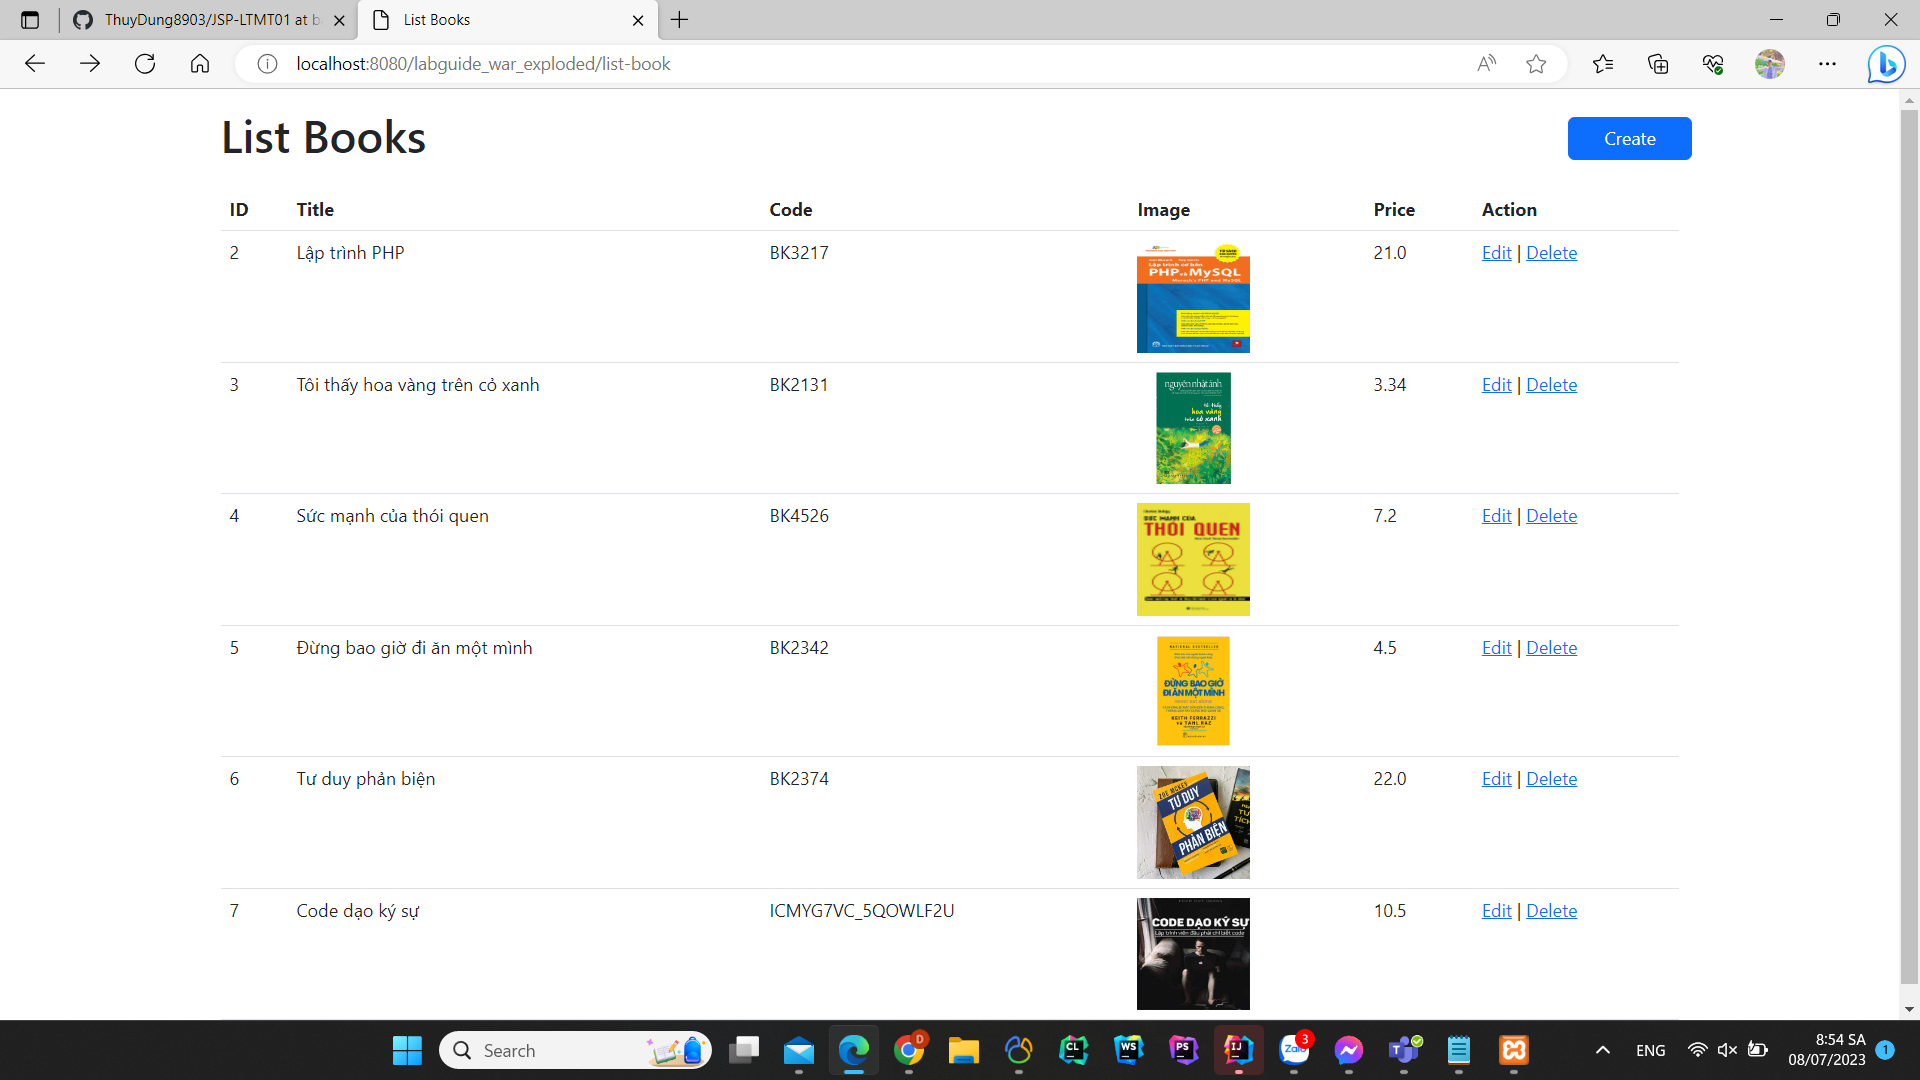
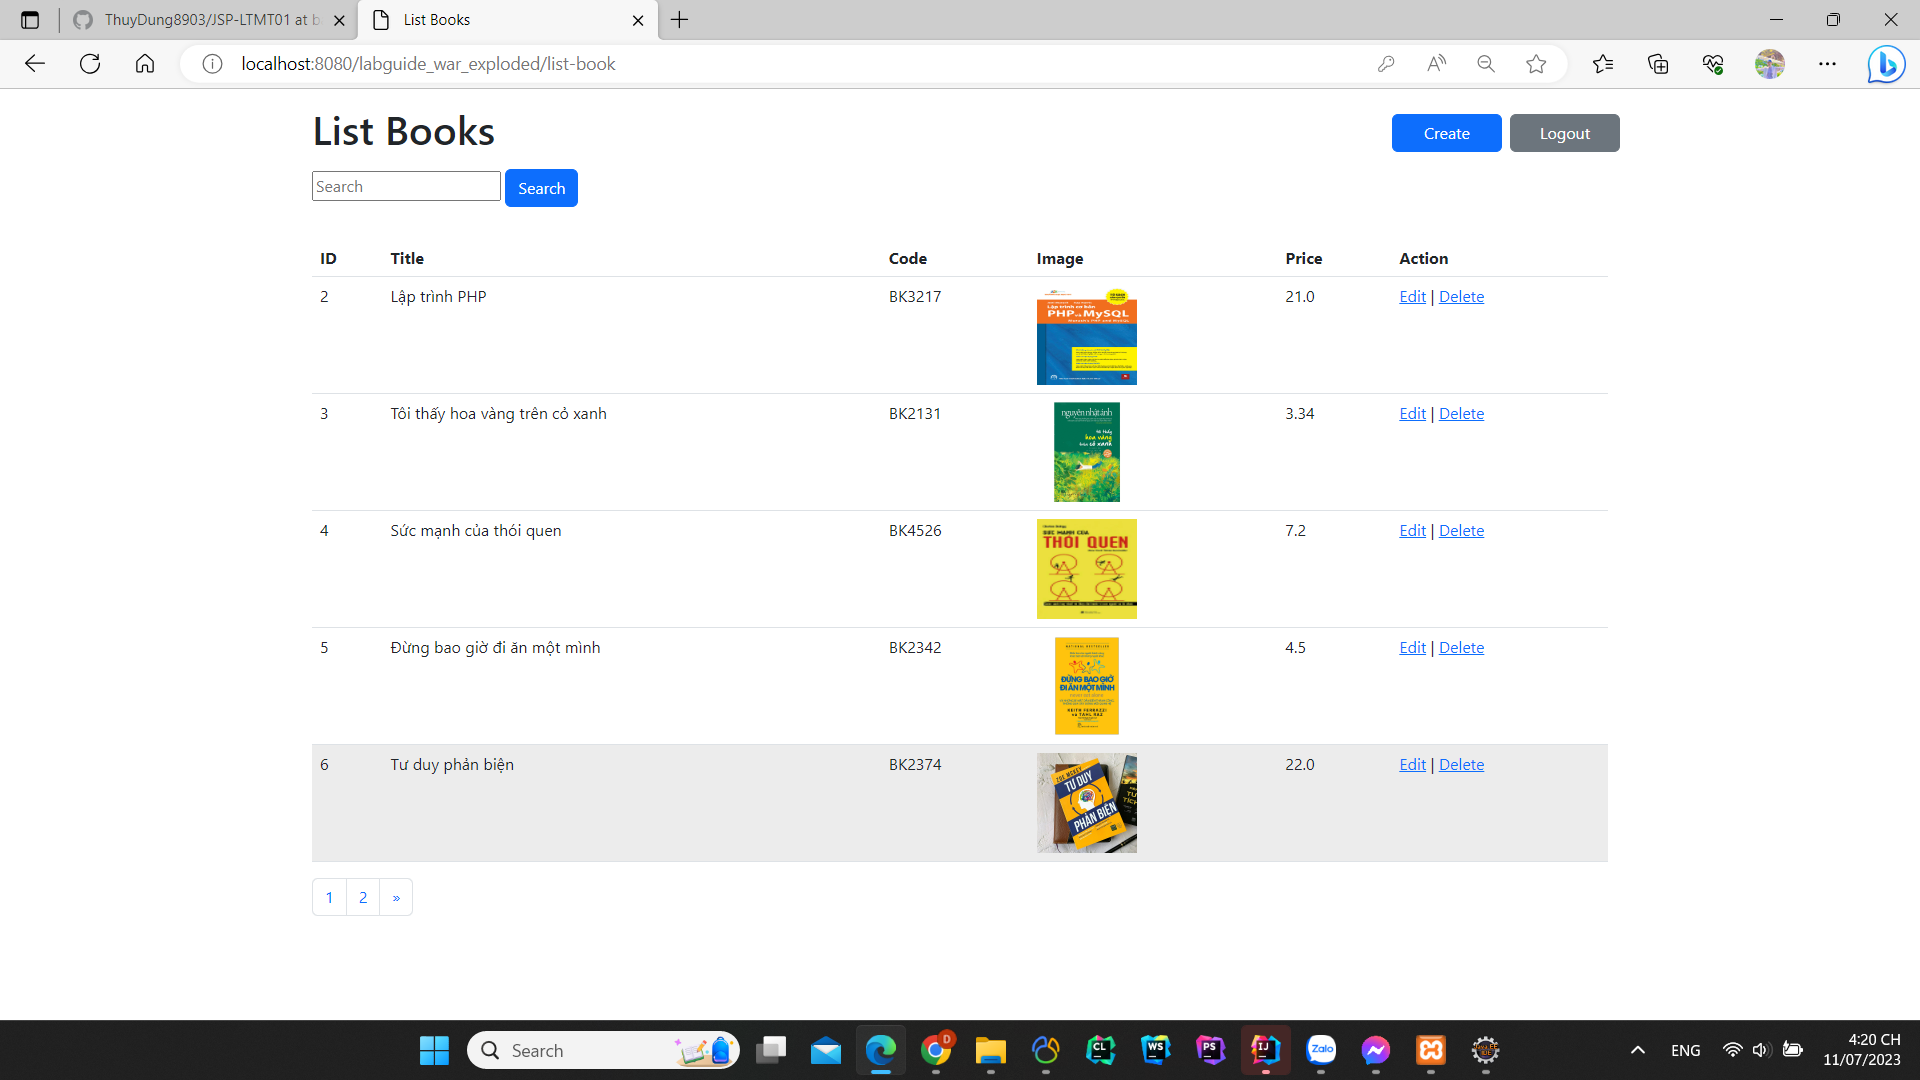
bai-dk-02

diff --git a/src/main/java/com/example/labguide/dals/BookDAL.java b/src/main/java/com/example/labguide/dals/BookDAL.java
@@ -7,9 +7,9 @@ import java.util.ArrayList;
 
 public class BookDAL {
     public ArrayList<Book> listBook() {
+        Connection connection = DB.connect();
         ArrayList<Book> listBook = new ArrayList<Book>();
         try {
-            Connection connection = DB.connect();
             String sql = "select * from books";
             Statement statement = connection.createStatement();
             ResultSet resultSet = statement.executeQuery(sql);
@@ -32,8 +32,8 @@ public class BookDAL {
     }
 
     public void addBook(Book book) {
+        Connection connection = DB.connect();
         try {
-            Connection connection = DB.connect();
             String sql = "INSERT INTO books (title, code, image, price) VALUES (?, ?, ?, ?)";
             PreparedStatement statement = connection.prepareStatement(sql);
             statement.setString(1, book.getTitle());
@@ -48,8 +48,8 @@ public class BookDAL {
     }
 
     public void deleteBook(int bookId) {
+        Connection connection = DB.connect();
         try {
-            Connection connection = DB.connect();
             String sql = "DELETE FROM books WHERE id=?";
             PreparedStatement statement = connection.prepareStatement(sql);
             statement.setInt(1, bookId);
@@ -61,8 +61,8 @@ public class BookDAL {
     }
 
     public void editBook(Book book) {
+        Connection connection = DB.connect();
         try {
-            Connection connection = DB.connect();
             String sql = "UPDATE books SET title=?, code=?, image=?, price=? WHERE id=?";
             PreparedStatement statement = connection.prepareStatement(sql);
             statement.setString(1, book.getTitle());
@@ -78,9 +78,9 @@ public class BookDAL {
     }
 
     public Book getBookById(int bookId) {
+        Connection connection = DB.connect();
         Book book = null;
         try {
-            Connection connection = DB.connect();
             String sql = "SELECT * FROM books WHERE id=?";
             PreparedStatement statement = connection.prepareStatement(sql);
             statement.setInt(1, bookId);
@@ -100,4 +100,65 @@ public class BookDAL {
         }
         return book;
     }
+
+    public ArrayList<Book> searchBooks(String keyword) throws SQLException {
+        Connection connection = DB.connect();
+        ArrayList<Book> books = new ArrayList<>();
+        String sql = "SELECT * FROM `books` WHERE `title` LIKE ?";
+        try (PreparedStatement statement = connection.prepareStatement(sql)) {
+            statement.setString(1, "%" + keyword + "%");
+            try (ResultSet resultSet = statement.executeQuery()) {
+                while (resultSet.next()) {
+                    int id = resultSet.getInt("id");
+                    String name = resultSet.getString("title");
+                    String bookCode = resultSet.getString("code");
+                    String images = resultSet.getString("image");
+                    double price = resultSet.getDouble("price");
+                    Book book = new Book(id, name, bookCode, images, price);
+                    books.add(book);
+                }
+            }
+        }
+        connection.close();
+        return books;
+    }
+
+    public int getTotalRecord() {
+        int total = 0;
+        Connection connection = DB.connect();
+        try {
+            PreparedStatement prepareStatement = connection.prepareStatement("SELECT COUNT(*) AS total FROM books");
+            ResultSet rs = prepareStatement.executeQuery();
+            if (rs.next()) {
+                total = rs.getInt("total");
+            }
+        } catch (Exception e) {
+            // TODO: handle exception
+        }
+        return total;
+    }
+
+    public ArrayList<Book> getBookByOffsetAndPageSize(int offset, int pageSize) {
+        ArrayList<Book> result = new ArrayList<Book>();
+        Connection connection = DB.connect();
+        try {
+            PreparedStatement prepareStatement = connection.prepareStatement("SELECT * FROM books LIMIT ?, ?");
+            prepareStatement.setInt(1, offset * pageSize);
+            prepareStatement.setInt(2, pageSize);
+            ResultSet rs = prepareStatement.executeQuery();
+            while (rs.next()) {
+                Book listBook = new Book();
+                listBook.setId(rs.getInt("id"));
+                listBook.setTitle(rs.getString("title"));
+                listBook.setImage(rs.getString("image"));
+                listBook.setPrice(rs.getDouble("price"));
+                listBook.setCode(rs.getString("code"));
+                result.add(listBook);
+            }
+        } catch (Exception e) {
+            // TODO: handle exception
+        }
+        return result;
+    }
+
 }

diff --git a/src/main/java/com/example/labguide/controller/BookServlet.java b/src/main/java/com/example/labguide/controller/BookServlet.java
@@ -1,23 +1,47 @@
 package com.example.labguide.controller;
 
 import com.example.labguide.dals.BookDAL;
+import com.example.labguide.dals.DB;
 import com.example.labguide.model.Book;
 import jakarta.servlet.*;
 import jakarta.servlet.http.*;
 import jakarta.servlet.annotation.*;
 
 import java.io.IOException;
+import java.sql.Connection;
+import java.sql.SQLException;
 import java.util.ArrayList;
+import java.util.Collection;
 
 @WebServlet(name = "BookServlet", value = "/list-book")
 public class BookServlet extends HttpServlet {
     @Override
     protected void doGet(HttpServletRequest request, HttpServletResponse response) throws ServletException, IOException {
         BookDAL bookDAL = new BookDAL();
-        ArrayList<Book> listBook = bookDAL.listBook();
+        int page = 0;
+        int recordsPerPage = 5;
+        int totalRecords = bookDAL.getTotalRecord();
+        String search = request.getParameter("search");
+        ArrayList<Book> listBook;
+        if (request.getParameter("page") != null) {
+            page = Integer.parseInt(request.getParameter("page")) - 1;
+        }
+        if (search != null && !search.equals("")) {
+            try {
+                listBook = bookDAL.searchBooks(search);
+            } catch (SQLException e) {
+                throw new RuntimeException(e);
+            }
+        } else {
+            listBook = bookDAL.listBook();
+            listBook = bookDAL.getBookByOffsetAndPageSize(page, recordsPerPage);
+        }
         request.setAttribute("listBook", listBook);
+        request.setAttribute("totalPage", Math.ceil((double) totalRecords / recordsPerPage) );
+        request.setAttribute("currentPage", page+1);
+        request.setAttribute("recordsPerPage", recordsPerPage);
         request.getRequestDispatcher("WEB-INF/view/list.jsp").forward(request, response);
-        
+
     }
 
     @Override

diff --git a/src/main/java/com/example/labguide/controller/LoginServlet.java b/src/main/java/com/example/labguide/controller/LoginServlet.java
@@ -1,22 +1,36 @@
 package com.example.labguide.controller;
 
+import com.example.labguide.dals.DB;
+import com.example.labguide.dals.UserDAL;
 import jakarta.servlet.*;
 import jakarta.servlet.http.*;
 import jakarta.servlet.annotation.*;
 
 import java.io.IOException;
+import java.sql.Connection;
+import java.sql.SQLException;
 
 @WebServlet(name = "LoginServlet", value = "/login")
 public class LoginServlet extends HttpServlet {
     private static final long serialVersionUID = 1L;
+
     public LoginServlet() {
         super();
     }
+
+    protected Connection connection = DB.connect();
+
     @Override
     protected void doGet(HttpServletRequest request, HttpServletResponse response) throws ServletException, IOException {
         String username = request.getParameter("username");
         String password = request.getParameter("password");
-        if (username.equals("admin") && password.equals("123456")) {
+        boolean check = false;
+        try {
+            check = UserDAL.login(connection, username, password);
+        } catch (SQLException e) {
+            e.printStackTrace();
+        }
+        if (check) {
             HttpSession session = request.getSession(true);
             session.setAttribute("username", username);
 
@@ -41,7 +55,7 @@ public class LoginServlet extends HttpServlet {
             response.addCookie(cUser);
             response.addCookie(cPass);
             response.addCookie(cRemember);
-            response.sendRedirect("home");
+            response.sendRedirect("list-book");
         } else {
             request.setAttribute("error", "Wrong username or password!");
             request.getRequestDispatcher("index.jsp").forward(request, response);

diff --git a/src/main/java/com/example/labguide/model/User.java b/src/main/java/com/example/labguide/model/User.java
@@ -1,0 +1,47 @@
+package com.example.labguide.model;
+
+public class User {
+    int id;
+    String nick_name;
+    String pass;
+    String email;
+
+    public User(int id, String nick_name, String pass, String email) {
+        this.id = id;
+        this.nick_name = nick_name;
+        this.pass = pass;
+        this.email = email;
+    }
+
+    public int getId() {
+        return id;
+    }
+
+    public void setId(int id) {
+        this.id = id;
+    }
+
+    public String getNick_name() {
+        return nick_name;
+    }
+
+    public void setNick_name(String nick_name) {
+        this.nick_name = nick_name;
+    }
+
+    public String getPass() {
+        return pass;
+    }
+
+    public void setPass(String pass) {
+        this.pass = pass;
+    }
+
+    public String getEmail() {
+        return email;
+    }
+
+    public void setEmail(String email) {
+        this.email = email;
+    }
+}

diff --git a/src/main/java/com/example/labguide/dals/UserDAL.java b/src/main/java/com/example/labguide/dals/UserDAL.java
@@ -1,0 +1,21 @@
+package com.example.labguide.dals;
+
+import java.sql.Connection;
+import java.sql.PreparedStatement;
+import java.sql.ResultSet;
+import java.sql.SQLException;
+
+public class UserDAL {
+    public static boolean login(Connection connection, String username, String password) throws SQLException {
+        String sql = "SELECT COUNT(*) FROM `users` WHERE `nick_name` = ? AND `pass` = ?";
+        try (PreparedStatement statement = connection.prepareStatement(sql)) {
+            statement.setString(1, username);
+            statement.setString(2, password);
+            try (ResultSet resultSet = statement.executeQuery()) {
+                resultSet.next();
+                int count = resultSet.getInt(1);
+                return count > 0;
+            }
+        }
+    }
+}
